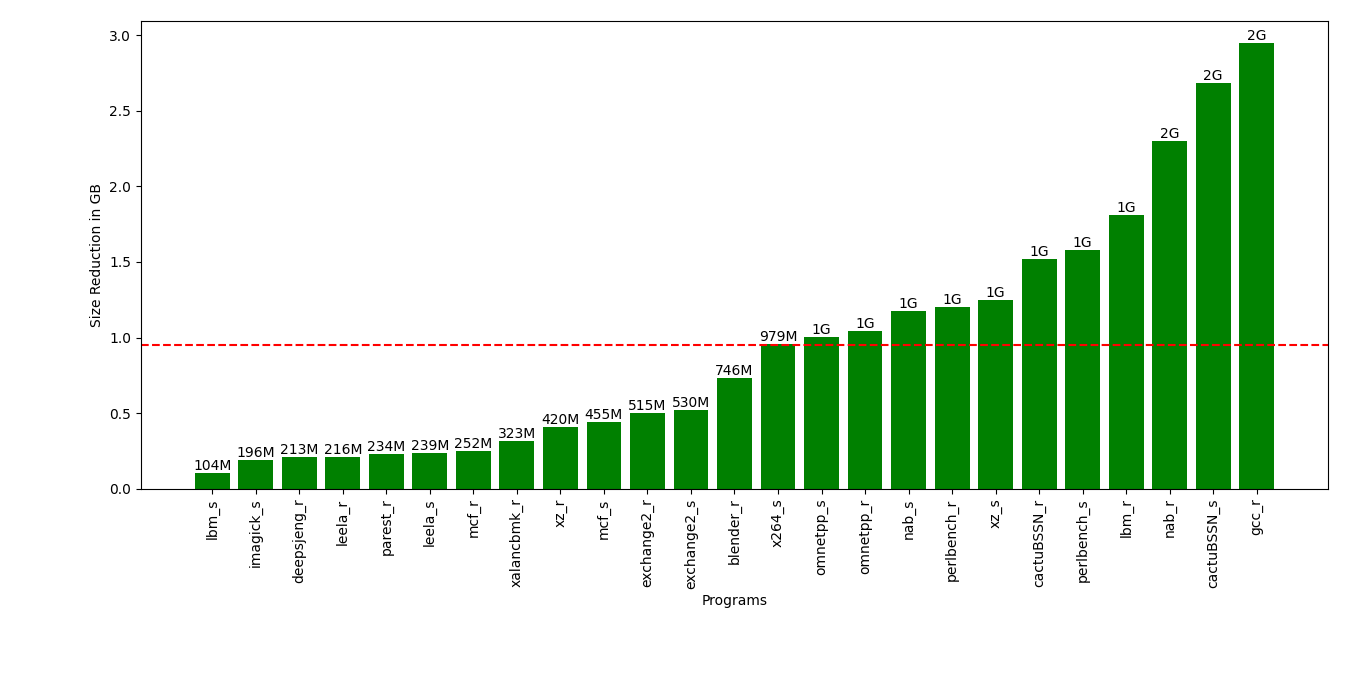
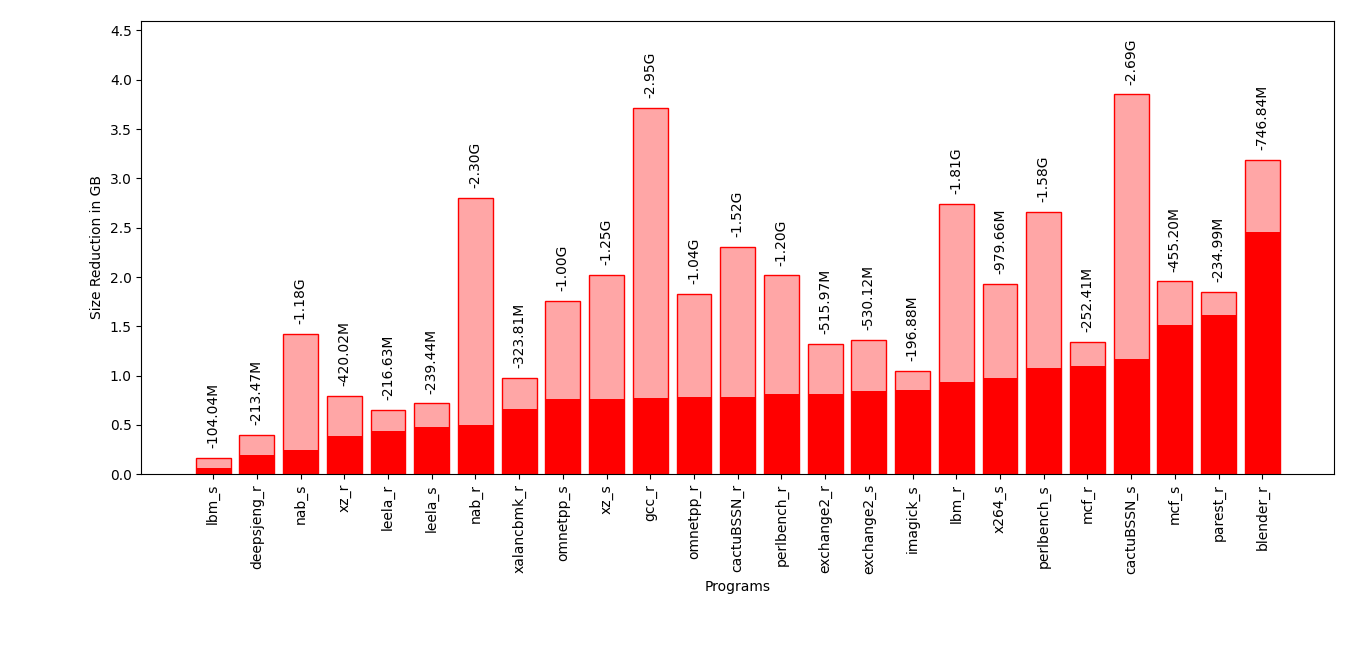
...

diff --git a/scripts/plot_size_reduction.py b/scripts/plot_size_reduction.py
@@ -2,7 +2,9 @@
 import argparse
 import matplotlib
 import matplotlib.pyplot as plt
-from hurry.filesize import size
+import numpy as np
+from calmsize import size, ByteSize
+
 by_first = lambda x: x[0]
 
 parser = argparse.ArgumentParser(
@@ -77,73 +79,50 @@ if args.info:
 
     # aux
     steady_instructions_plot = list(zip(steady_instructions_percentages, program_names))
-    steady_sizes = []
-    steady_names = []
+    reduced_sizes = []
+    reduced_names = []
 
     # calcula o tamanho da redução prevista para os traços uncompressed dos programas
     for program_steady_percentages in steady_instructions_plot:
-        steady_sizes.append((int(program_steady_percentages[0]*program_sizes[program_steady_percentages[1]]), program_steady_percentages[1])) 
+        program_name = program_steady_percentages[1]
+        steady_size = int(program_steady_percentages[0]*program_sizes[program_name])
+        reduced_size = program_sizes[program_name] - steady_size
+        reduced_sizes.append((reduced_size, program_name))
 
     # ordena os tamanhos das reduções
-    steady_sizes = sorted(steady_sizes, key=by_first)
-    steady_sizes, steady_names = zip(*steady_sizes)
-    steady_sizes = list(steady_sizes)
+    reduced_sizes = sorted(reduced_sizes, key=by_first)
+    reduced_sizes, reduced_names = zip(*reduced_sizes)
+    reduced_sizes = list(reduced_sizes)
     # calcula media das reduções
-    steady_sizes_mean = sum([x/GBFACTOR for x in steady_sizes])/float(len(steady_sizes))
+    reduced_sizes_mean = sum([x/GBFACTOR for x in reduced_sizes])/float(len(reduced_sizes))
 
-    ##
-    # steady_accesses_plot = list(zip(steady_accesses_percentages, program_names))
-
-    # steady_instructions_plot = sorted(steady_instructions_plot, key=by_first)
-    # steady_accesses_plot = sorted(steady_accesses_plot, key=by_first)
-
-    # steady_instructions_percentages, program_names = zip(*steady_instructions_plot)
-    # steady_accesses_percentages, program_names = zip(*steady_accesses_plot)
 
     if args.plot:
-        # plt.xlabel('Programs')
-        # plt.ylabel('Integral Steady Accesses')
-        # plt.axhline(y=instruction_percentages_mean, color='r', linestyle='--')
-        # bar = plt.bar(range(len(steady_instructions_percentages)), steady_instructions_percentages, align='center', color='g')
-        # for rect in bar:
-        #     height = rect.get_height()
-        #     plt.text(rect.get_x() + rect.get_width()/2.0, height, '%d%%' % int(height*100.0), ha='center', va='bottom')
-        # plt.xticks(range(len(steady_instructions_percentages)), program_names, rotation='vertical')
-        # plt.tight_layout()
-        # plt.savefig("integrally_memory_accesses_plt.png")
-        # plt.show()
-        # plt.clf()
-
-        # plt.xlabel('Programs')
-        # plt.ylabel('Steady Accesses')
-        # plt.axhline(y=accesses_percentages_mean, color='r', linestyle='--')
-        # bar = plt.bar(range(len(steady_accesses_percentages)), steady_accesses_percentages, align='center', color='g')
-        # for rect in bar:
-        #     height = rect.get_height()
-        #     plt.text(rect.get_x() + rect.get_width()/2.0, height, '%d%%' % int(height*100.0), ha='center', va='bottom')
-        # plt.xticks(range(len(steady_accesses_percentages)), program_names, rotation='vertical')
-        # plt.tight_layout()
-        # plt.savefig("partially_memory_accesses_plt.png")
-        # plt.show()
-
-        # labels dos eixos
+        # seta os labels dos eixos e o tamanho máximo do eixo y
         plt.xlabel('Programs')
         plt.ylabel('Size Reduction in GB')
+        axes = plt.gca()
+        axes.set_ylim([0,4.6])
 
         # plota tamanho dos traços de memoria uncompressed
-        whole_program_sizes = [program_sizes[program_name]/GBFACTOR for program_name in steady_names]
-        whole_program_sizes_bar = plt.bar(range(len(whole_program_sizes)), whole_program_sizes, align='center', color='b')
+        whole_program_sizes = [program_sizes[program_name]/GBFACTOR for program_name in reduced_names]
+        whole_sizes_bar = plt.bar(range(len(whole_program_sizes)), whole_program_sizes, align='center', color=( 1, 0.65, 0.65, 1), edgecolor='r')
 
-        # plota tamanho das reduções dos traços de memoria uncompressed e sua média e escreve o valor em cima de cada barra
-        plt.axhline(y=steady_sizes_mean, color='r', linestyle='--')
-        steady_sizes = [x/GBFACTOR for x in steady_sizes]
-        bar = plt.bar(range(len(steady_sizes)), steady_sizes, align='center', color='g')
-        for rect in bar:
-            height = rect.get_height()
-            plt.text(rect.get_x() + rect.get_width()/2.0, height, '%s' % size(int(height*GBFACTOR)), ha='center', va='bottom')
+        # plota tamanho das reduções dos traços de memoria uncompressed e sua média
+        # plt.axhline(y=reduced_sizes_mean, color='r', linestyle='--')
+        reduced_sizes = [x/GBFACTOR for x in reduced_sizes]
+        reduced_sizes_bar = plt.bar(range(len(reduced_sizes)), reduced_sizes, align='center', color='r')
 
-        # plota o nome dos programas no eixo x        
-        plt.xticks(range(len(steady_sizes)), steady_names, rotation='vertical')
+        # Escreve o valor da redução do traço em cima de cada barra
+        for rects in zip(whole_sizes_bar, reduced_sizes_bar):
+            whole_height = rects[0].get_height()
+            reduced_height = rects[1].get_height()
+
+            plt.text(rects[0].get_x() + rects[0].get_width()/2.0, whole_height+0.1, '-%s' % '{:.2f}'.format(size(int((whole_height - reduced_height)* GBFACTOR))), rotation='vertical', ha='center', va='bottom')
+
+        # plota o nome dos programas no eixo x e seta os ticks do eixo y       
+        plt.xticks(range(len(reduced_sizes)), reduced_names, rotation='vertical')
+        plt.yticks(np.arange(0, 4.6, step=0.5))
 
         # salva o grafico plotado
         plt.tight_layout()
